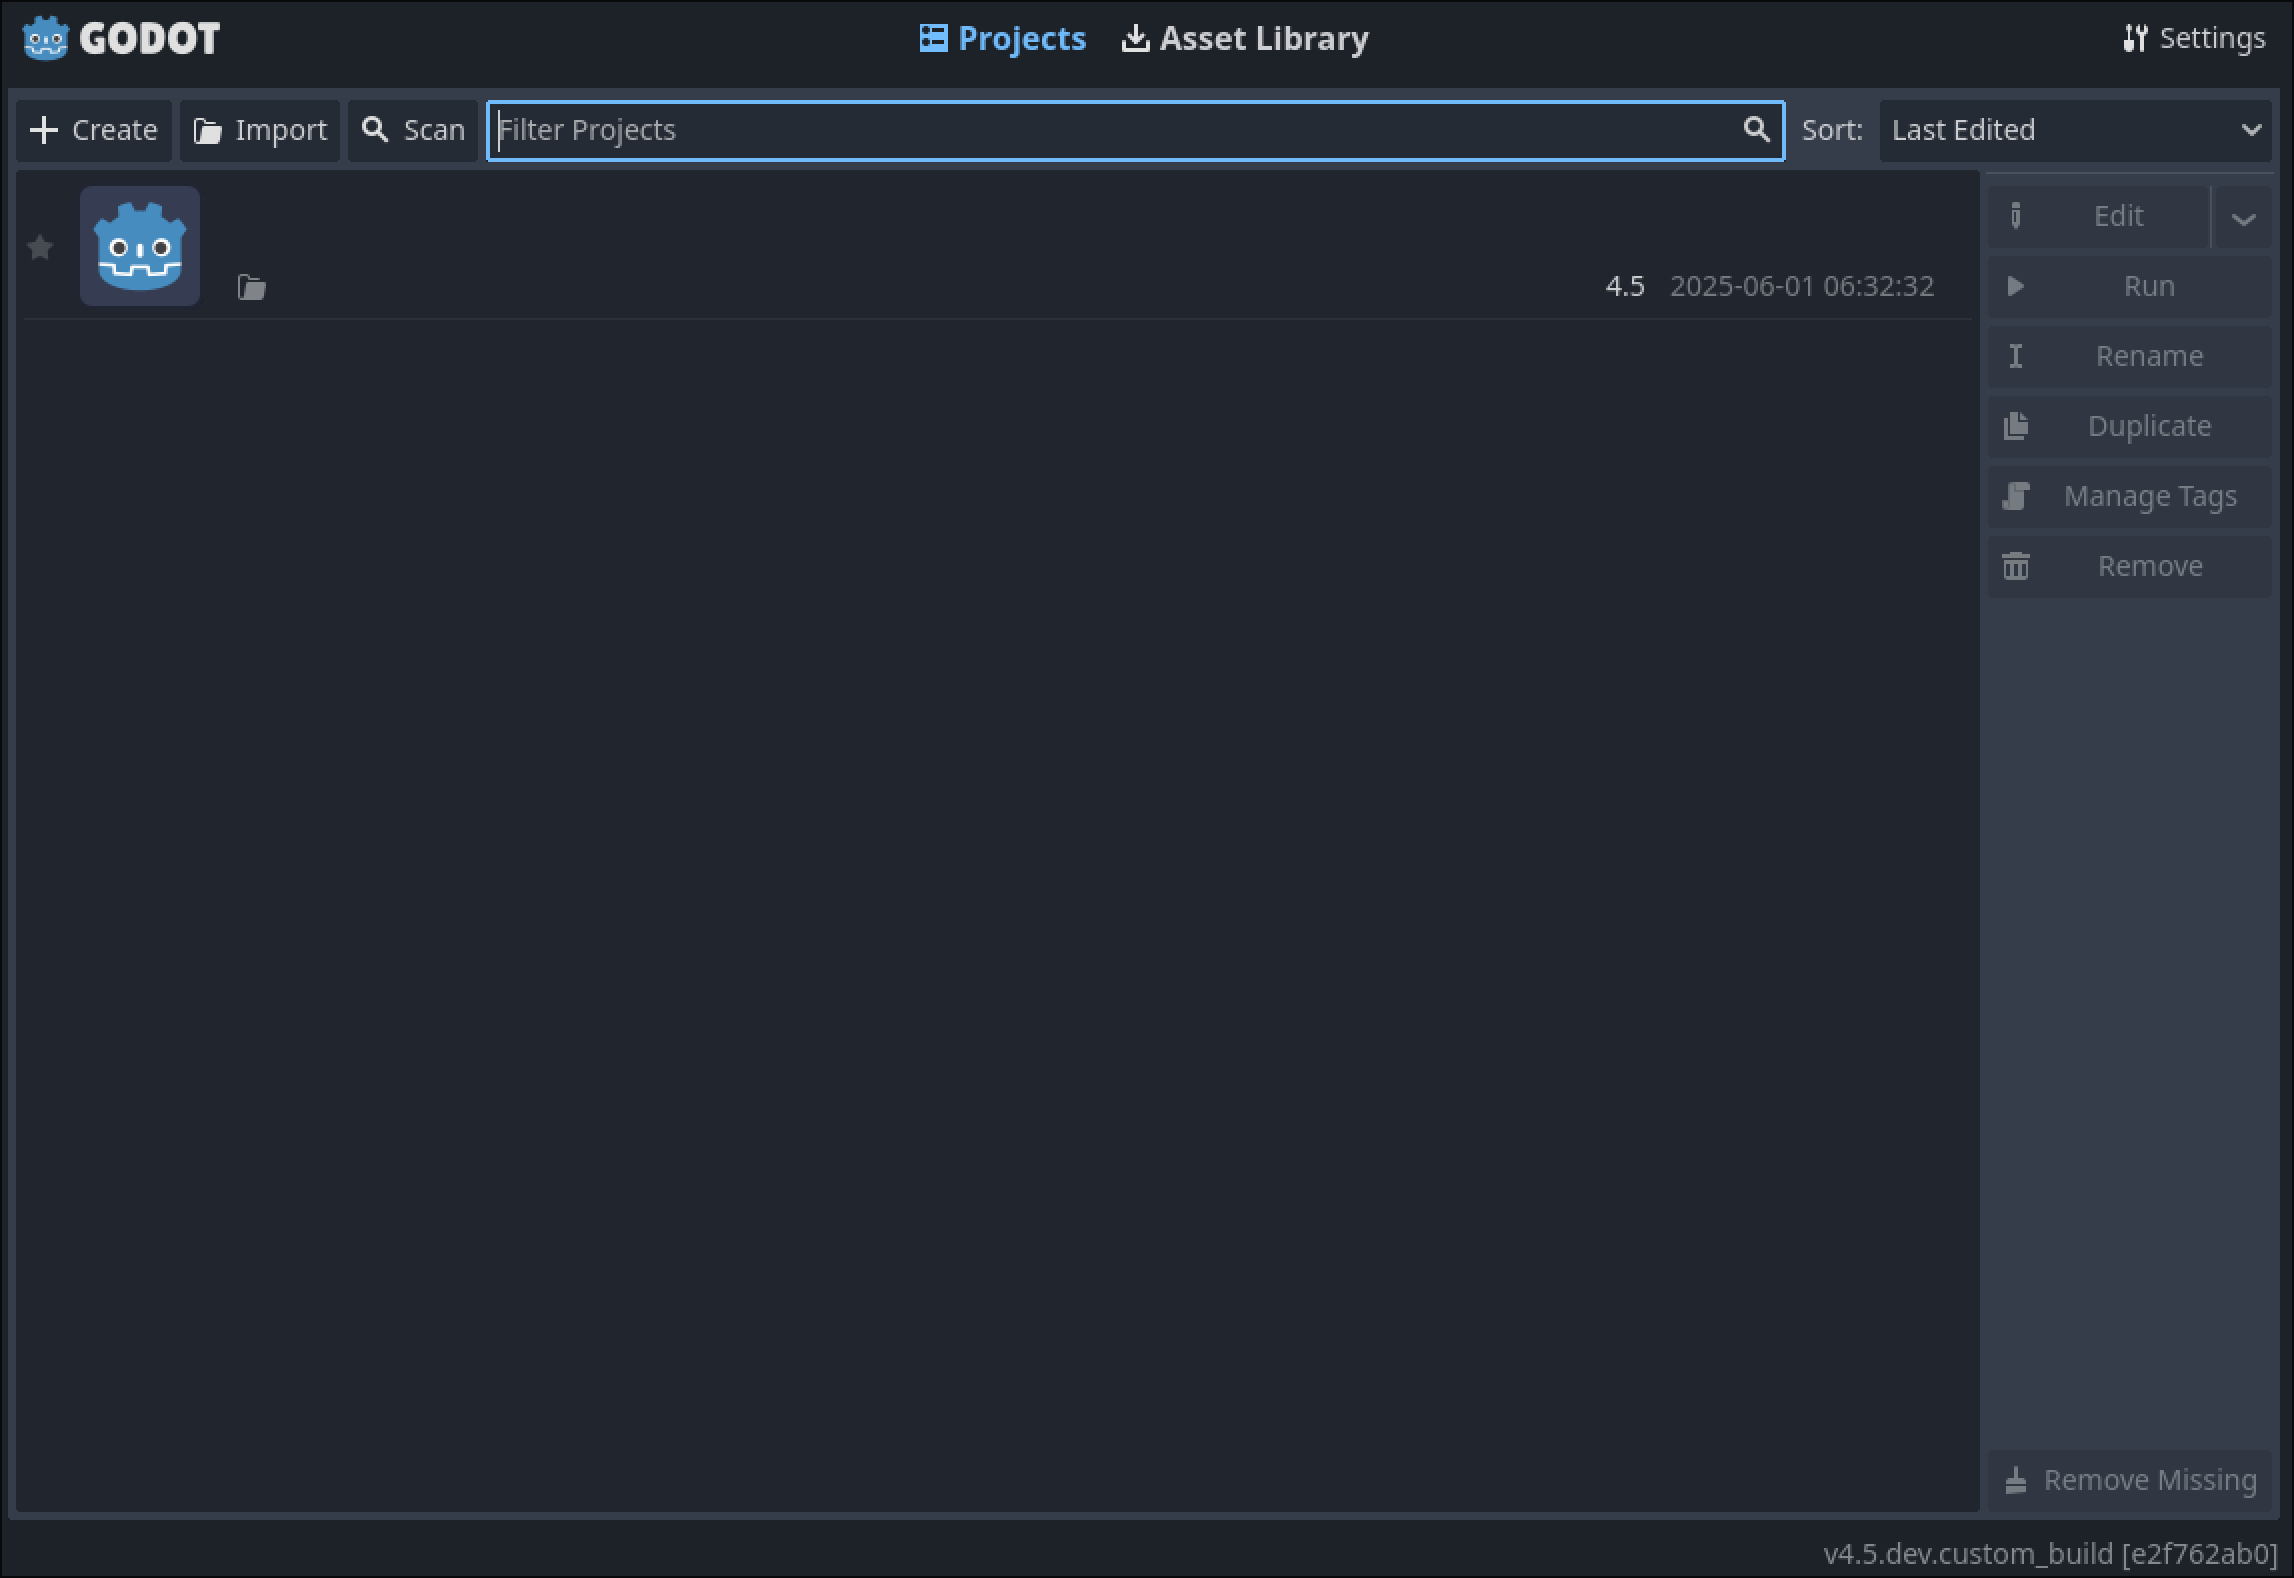
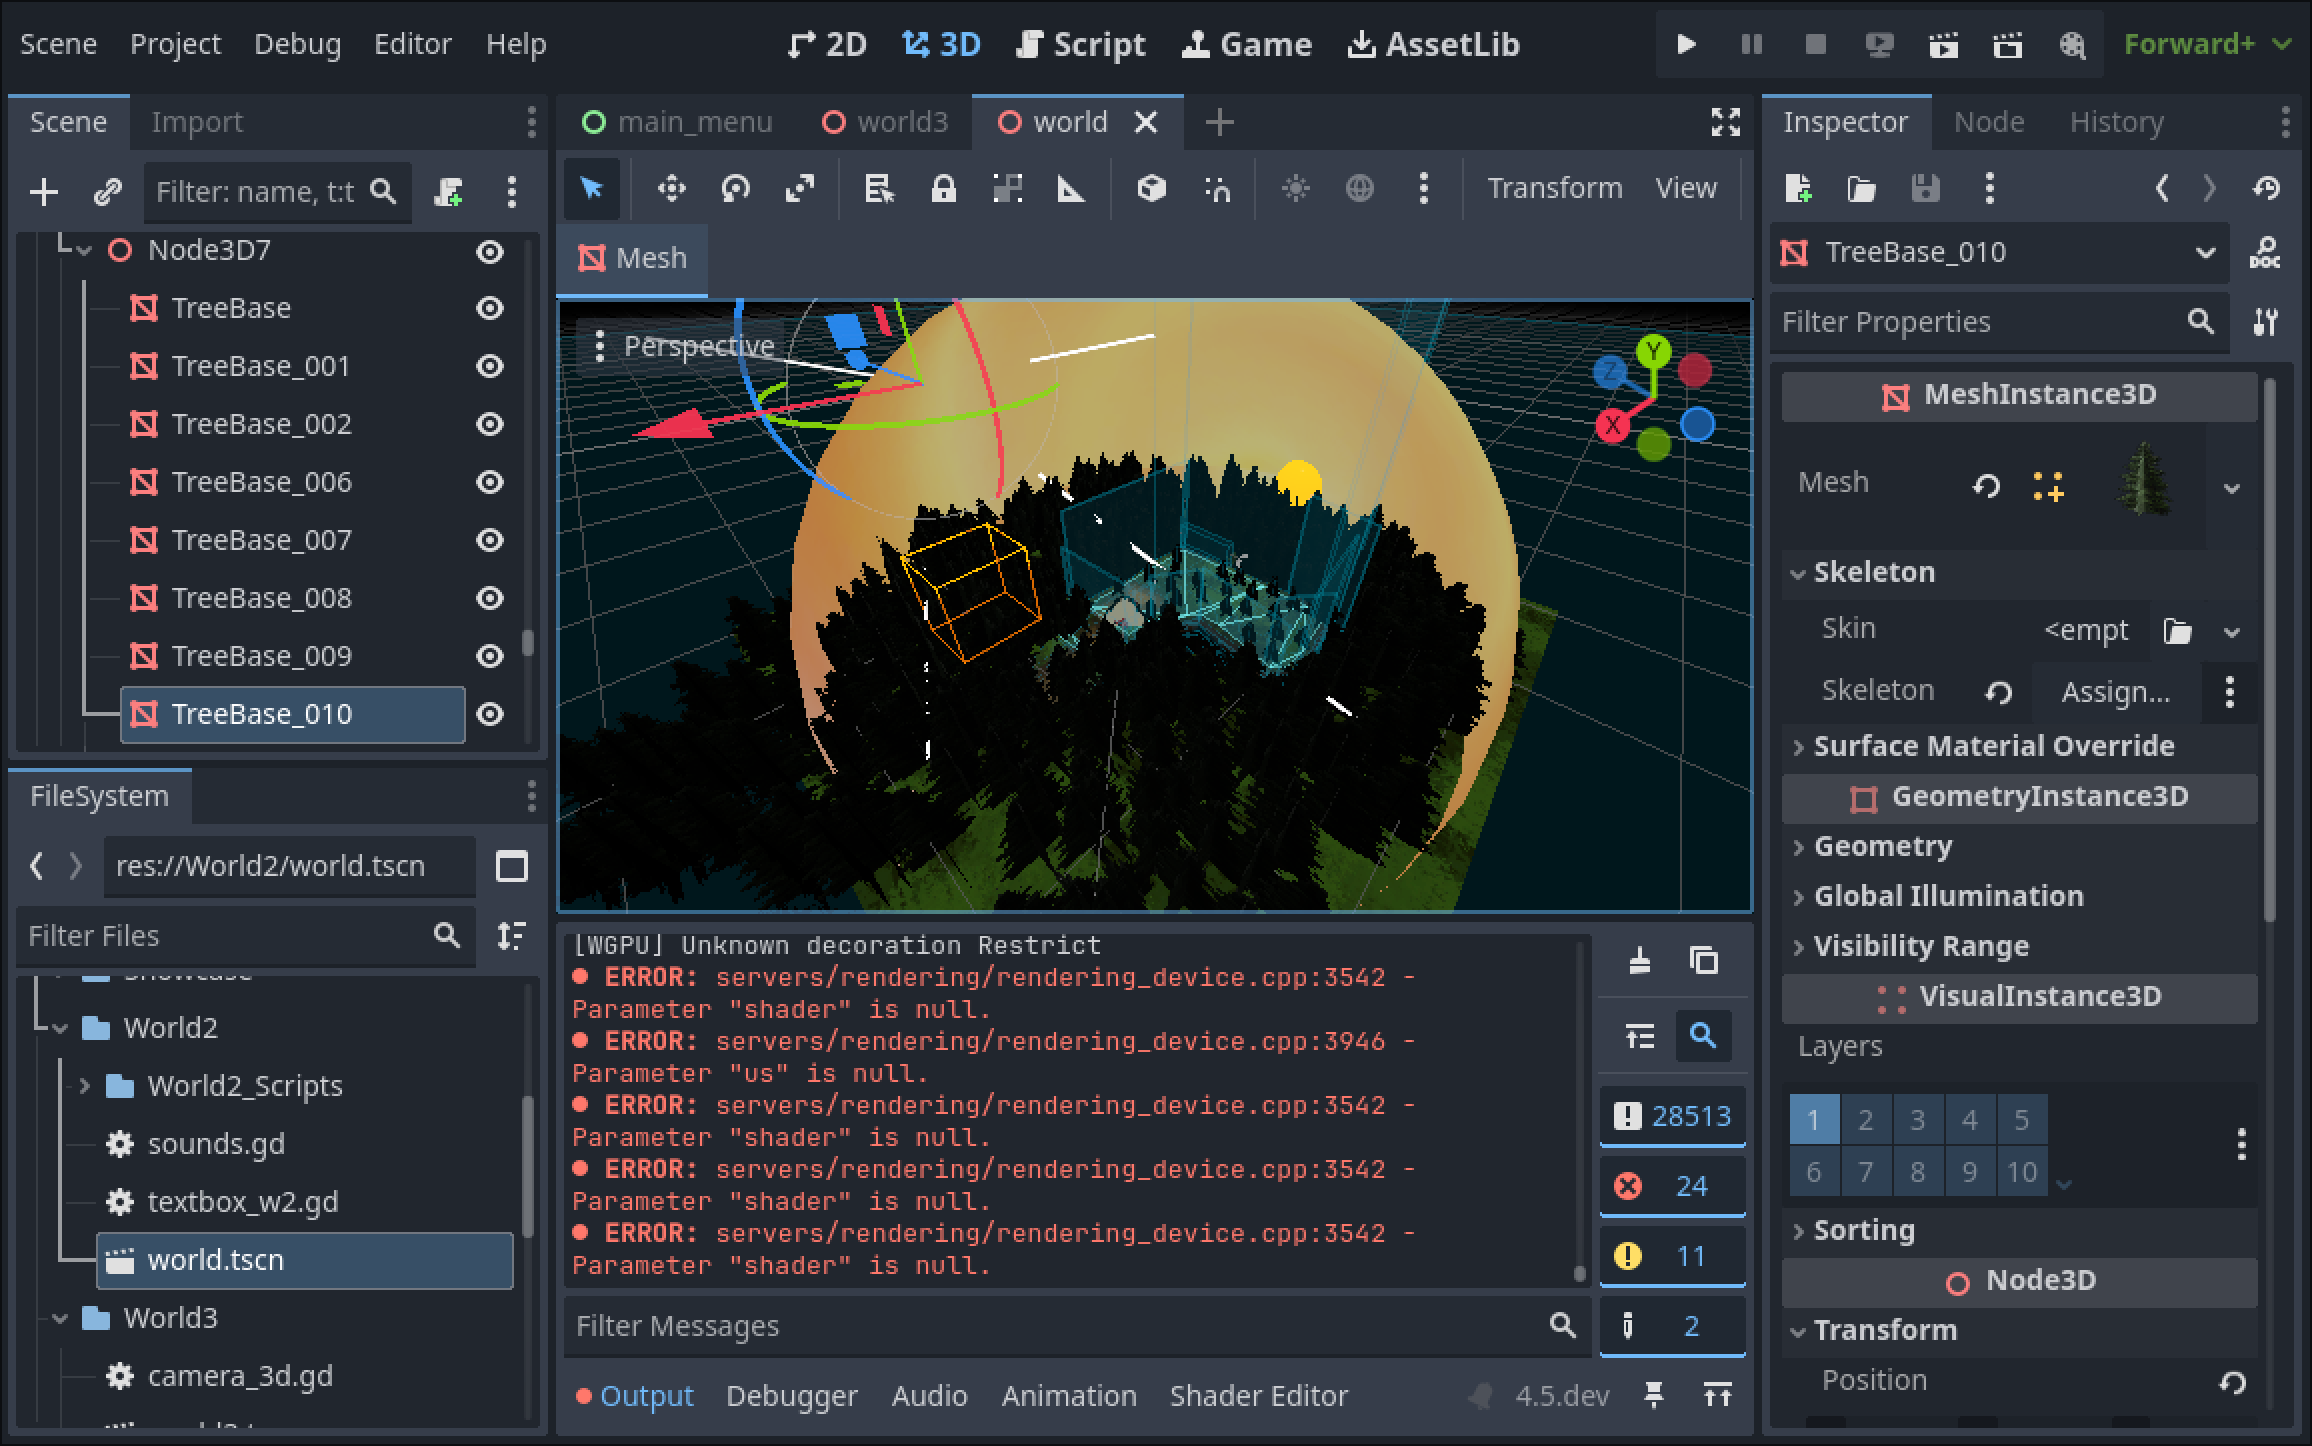
Update godot driver progress

diff --git a/index.html b/index.html
@@ -165,9 +165,9 @@
 
                 <br><br>
 
-                <img src="./assets/godotwg1.png" height="300.0em" alt="Godot with WebGPU 1"/>
-                <img src="./assets/godotwg0.png" height="300.0em" alt="Godot with WebGPU 0"/>
-                <img src="./assets/godotwg2.png" height="50.0em" alt="Godot with WebGPU 2"/>
+                <img src="./assets/godotwg1.png" height="180.0em" alt="Godot with WebGPU 1"/>
+                <img src="./assets/godotwg2.png" height="180.0em" alt="Godot with WebGPU 0"/>
+                <img src="./assets/godotwg0.png" height="180.0em" alt="Godot with WebGPU 2"/>
 
                 <br>
                 <blockquote>